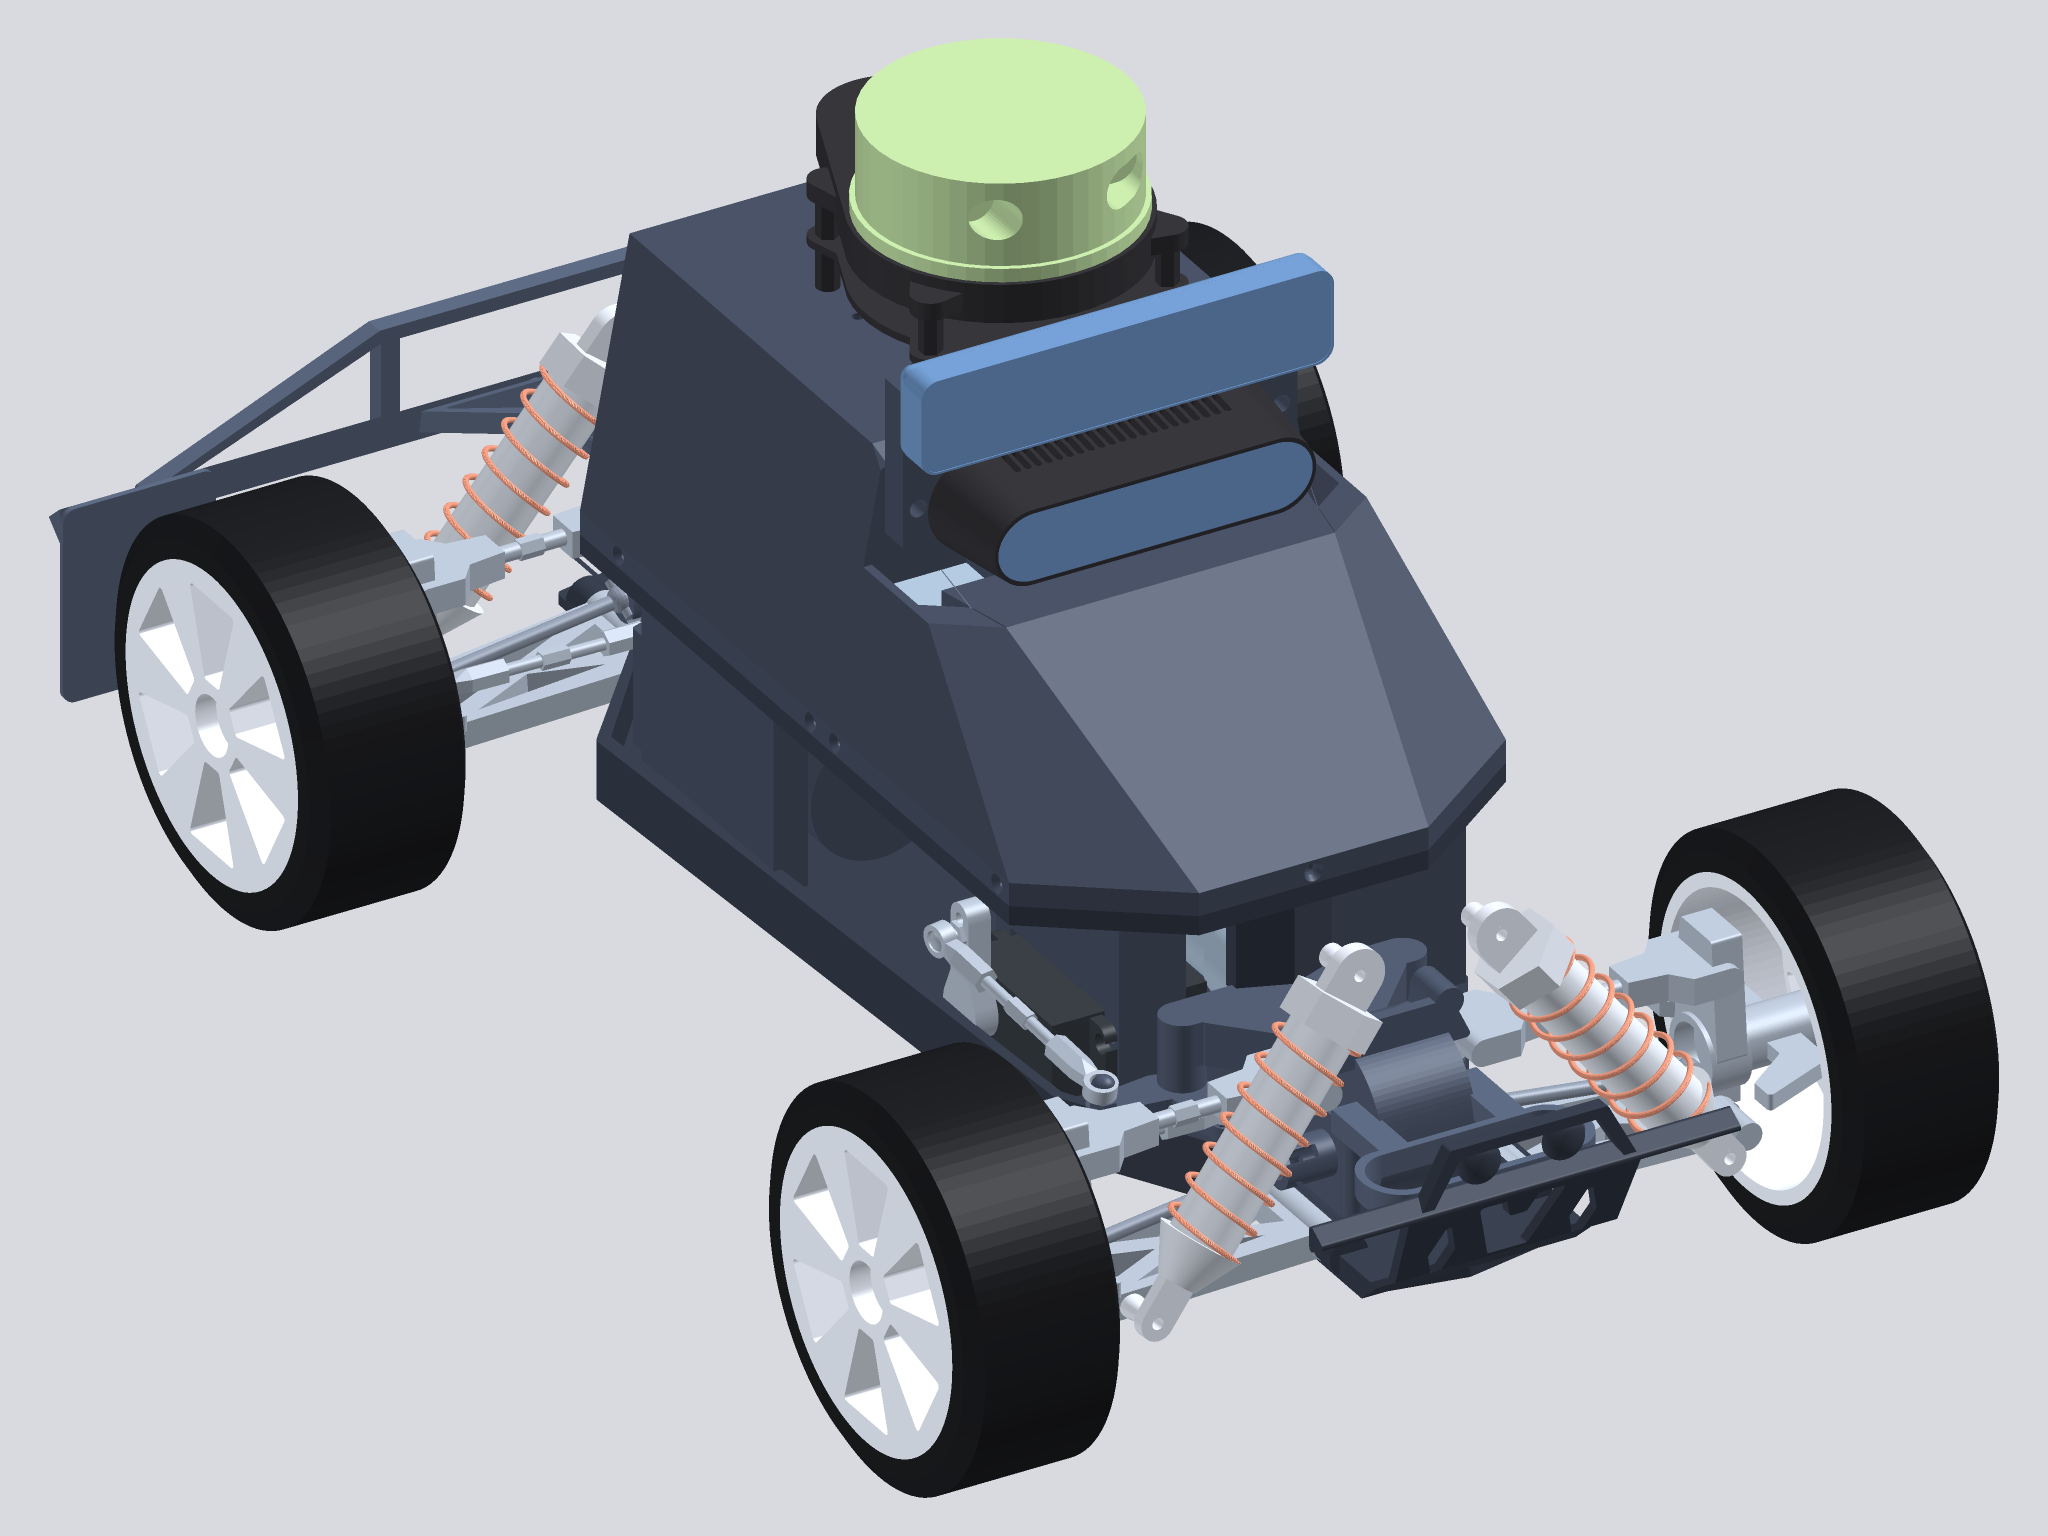
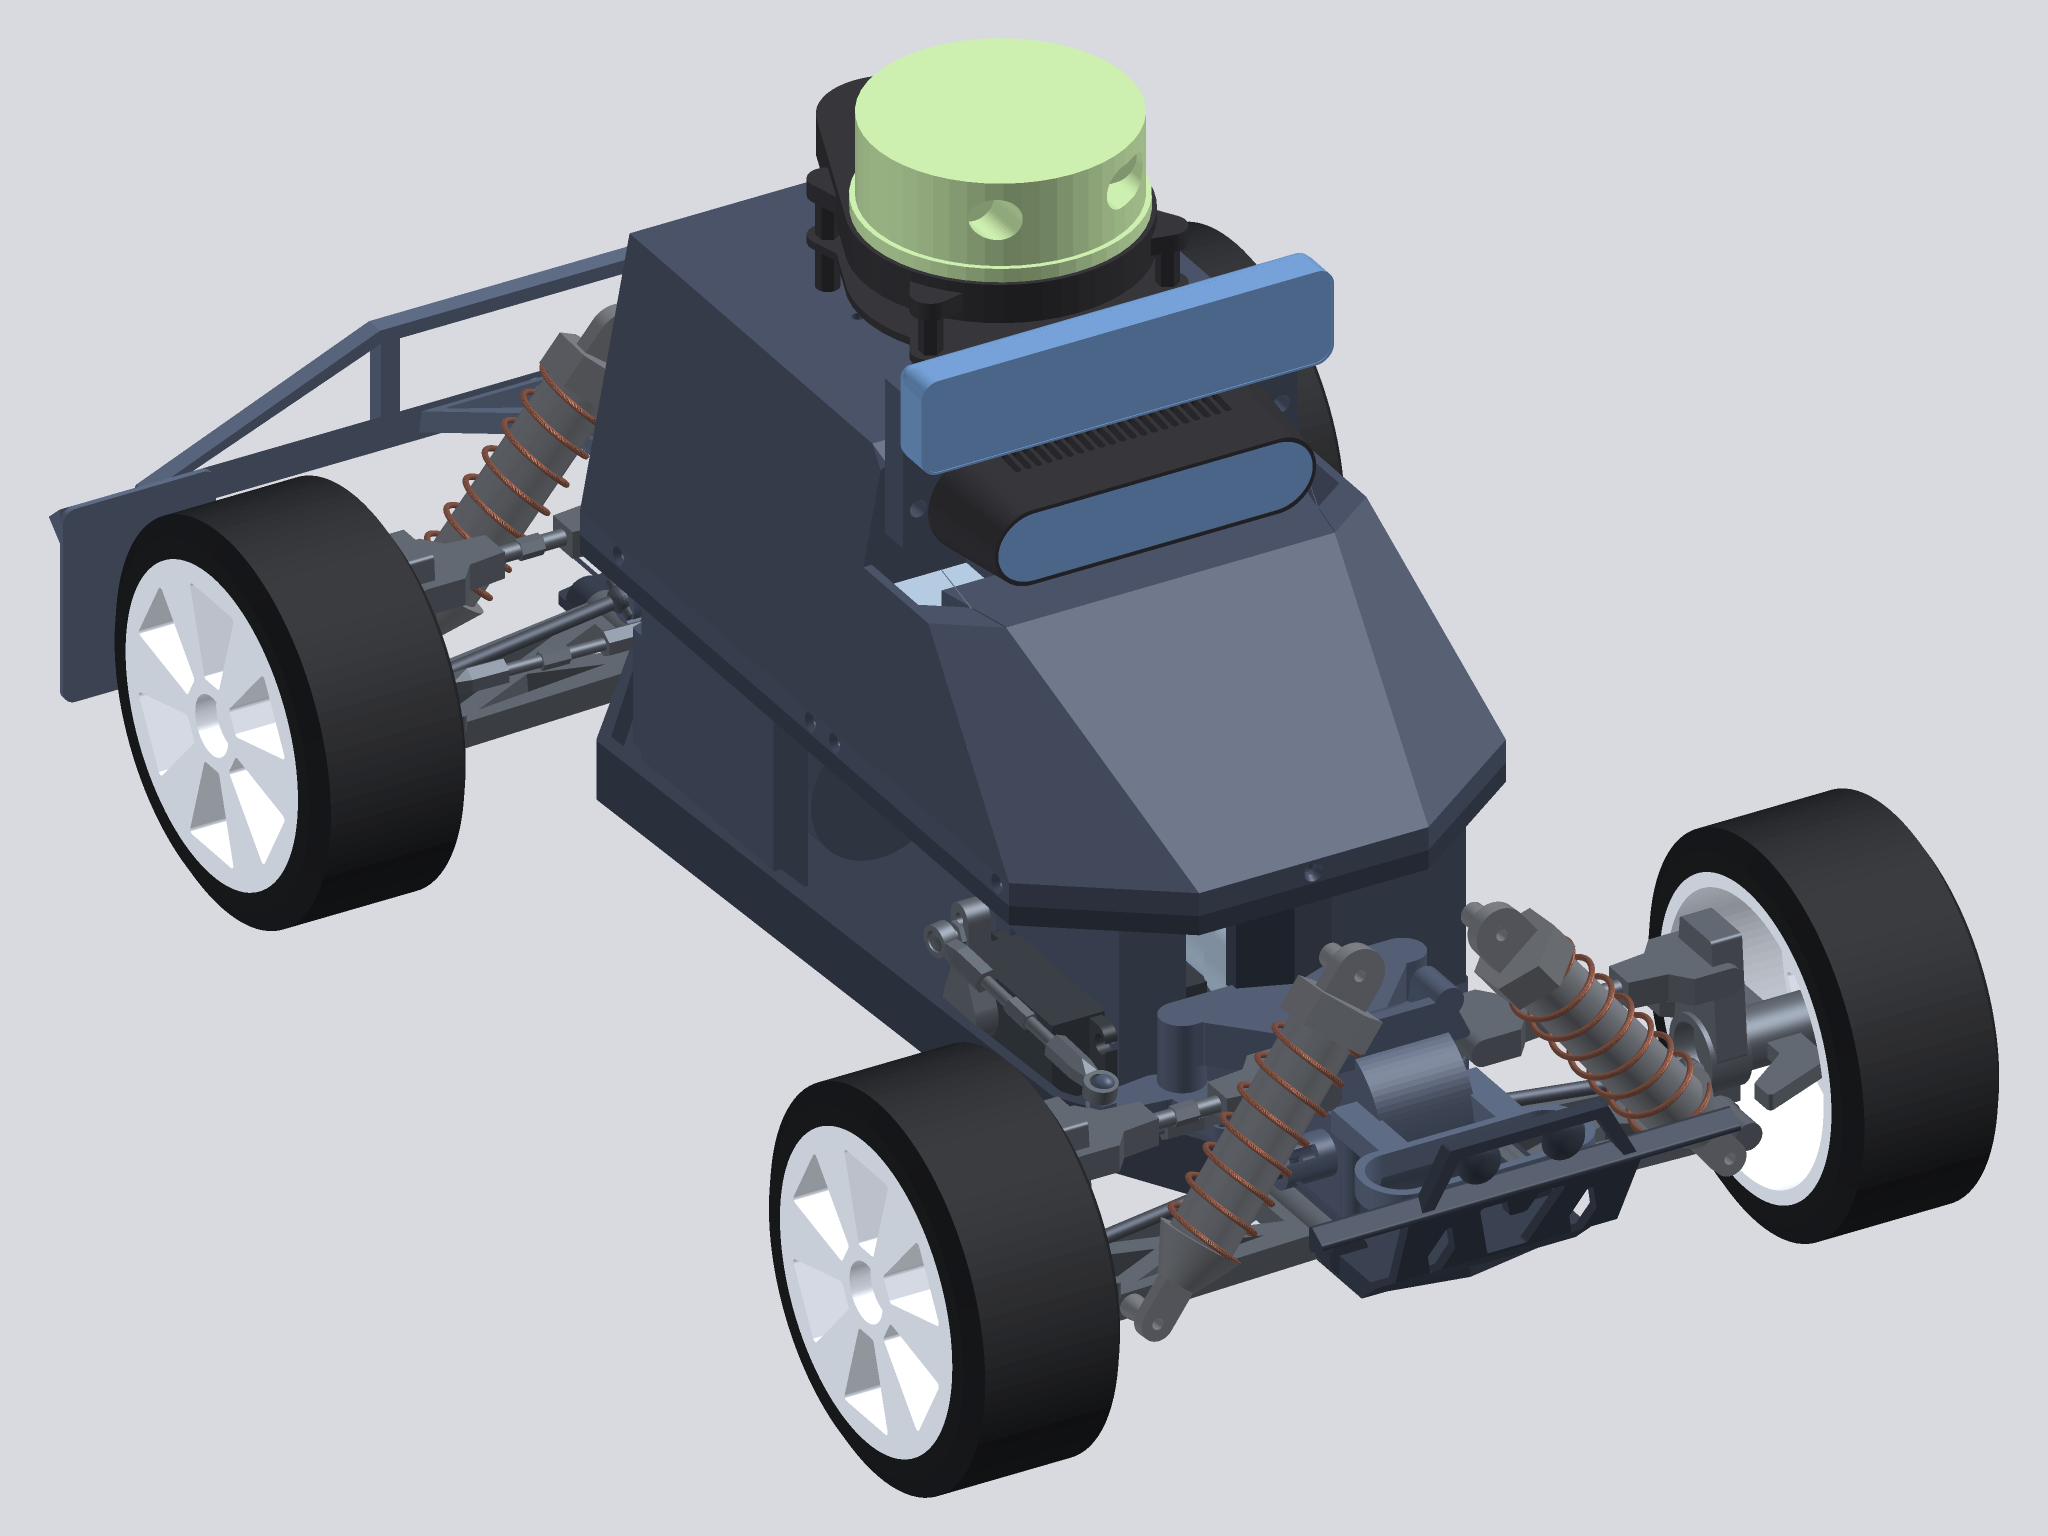
Add surface materials to the MuSHR racecar example
The palette now pairs each role's colour with a material: rubber
tires, metal linkage, shafts and shocks, matte sensor housings, and
glossy batteries and lens panels. Regenerate both example images.

Changed region(s): [[0.4375, 0.5625, 0.9062, 0.875], [0.1875, 0.1875, 0.3125, 0.5]]

diff --git a/examples/mushr_racecar/README.md b/examples/mushr_racecar/README.md
@@ -33,7 +33,7 @@ render(require("parts.wheel").hub())
 | --- | --- |
 | `racecar.lua` | Top level: renders body then chassis |
 | `parts/utils.lua` | Shared primitives — fasteners, trapezoids, springs |
-| `parts/palette.lua` | The colour scheme |
+| `parts/palette.lua` | The colour and material scheme |
 | `parts/platform.lua` | The 374 mm chassis plate and its nose cone |
 | `parts/gearbox.lua` | Gearbox housings, steering rack, motor cover |
 | `parts/wheel.lua` | Tyre, hub and upright |
@@ -57,8 +57,11 @@ render(require("parts.wheel").hub())
   university logo into each rear side panel, lettering into the two front
   side panels, and a race number into the nose. Everything else is
   geometrically identical.
-- **Parts are coloured.** The original is monochrome apart from a single
-  `color()` call on the D435's lens.
+- **Parts are coloured and get surface materials.** The original is
+  monochrome apart from a single `color()` call on the D435's lens. Here
+  the tires are rubber, the linkage, shafts and shocks are metal, and the
+  camera lenses and batteries are glossy — visible in the ray-traced
+  render.
 - Three OpenSCAD quirks are reproduced rather than corrected, and flagged
   in comments where they occur: a stray X offset folded into the shock
   towers' Z placement, `_spec_trap`'s inconsistent face list, and a
